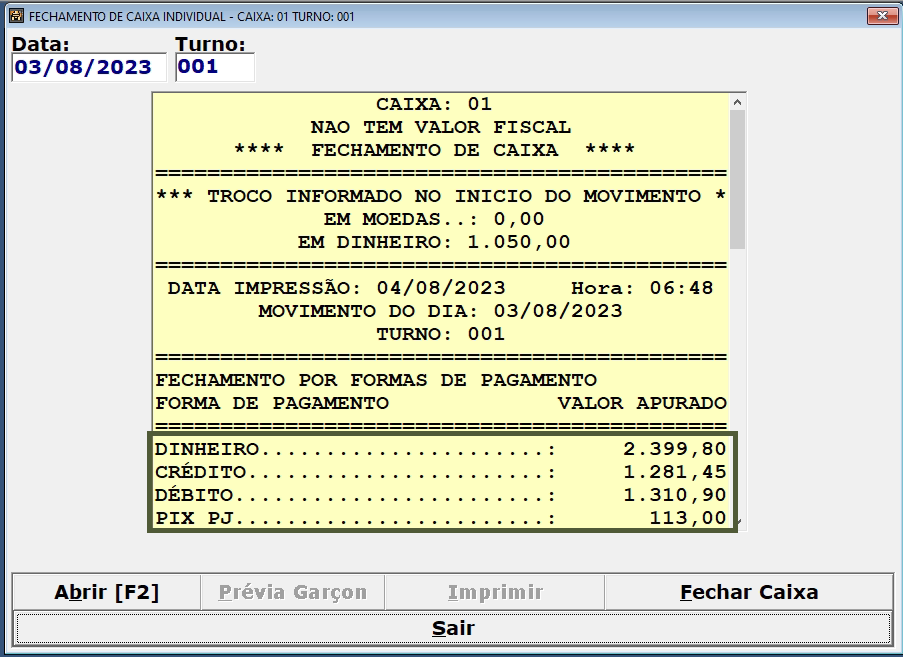
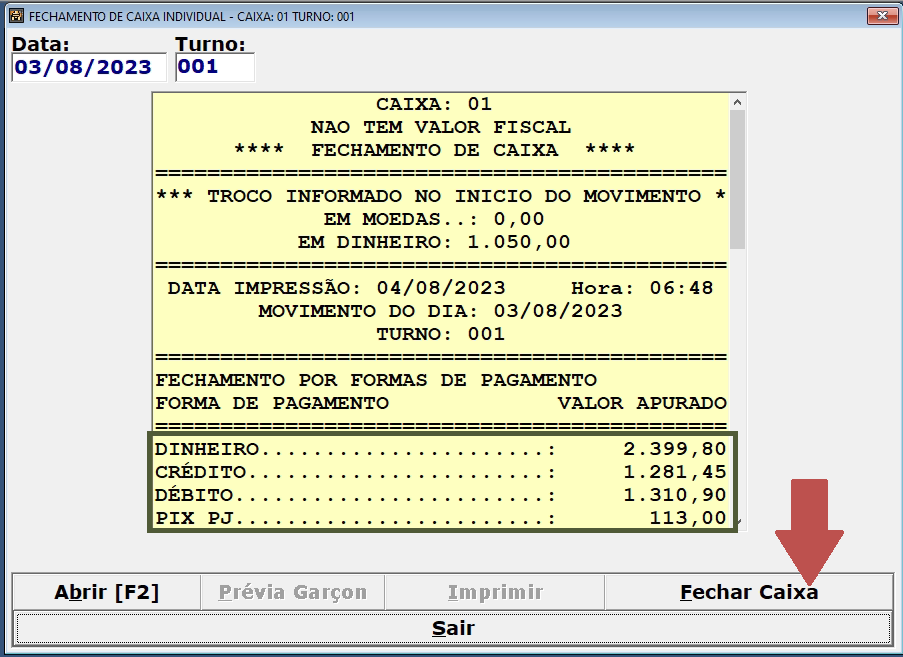
index fixes

Changed region(s): [[0.8372, 0.7306, 0.9302, 0.8828]]

diff --git a/Padrinho/fecha_caixa.html b/Padrinho/fecha_caixa.html
@@ -14,24 +14,27 @@
 <body>
     <div class="page">
         <h1 class="header">Fechamento de caixa</h1>
-        <p>No menu principal, clique em "IMPORTA APP" (flecha vermelha).</p>
-        <img src="../Usuário/fechamento_menu.jpg" alt=""/>
-        <p>Para sair do sistema é só clicar no botão “SAIR” (flecha verde):</p>
-        <img src="../Usuário/Cap 20.png" alt=""/>
-        <p>Para sair do sistema é só clicar no botão “SAIR” (flecha verde):</p>
         <p>No menu principal, clique em "FECHAMENTO DE CAIXA" (flecha vermelha).</p>
         <img src="../Usuário/fechamento_menu.jpg" alt=""/>
-        <p>Para sair do sistema é só clicar no botão “SAIR” (flecha verde):</p>
+        <p>O aviso vai aparecer, perguntando se você lançou todas as despesas no 
+            sistema antes de fazer o fechamento do caixa. Clique em "OK" (flecha verde).</p>
+        <img src="../Usuário/Cap 20.png" alt=""/>
+        <p>A tela a seguir irá aparecer. Nela podemos ver no retângulo verde os tipos de pagamento 
+            e os valores recebidos em cada tipo. Agora clique em "Fechar Caixa" (flecha vermelha).</p>
         <img src="../Usuário/Cap 21.png" alt=""/>
-        <p>Para sair do sistema é só clicar no botão “SAIR” (flecha verde):</p>
+        <p>A mensagem a seguir irá aparecer. Caso queira fechar o caixa clique em "SIM" 
+            (flecha verde), do contrário clique em "NÃO".</p>
         <img src="../Usuário/Cap 22.png" alt=""/>
-        <p>Para sair do sistema é só clicar no botão “SAIR” (flecha verde):</p>
+        <p>Agora coloque sua senha no local do retângulo vermelho. Depois clique em "OK" 
+            (flecha vermelha).</p>
         <img src="../Usuário/Cap 23.png" alt=""/>
-        <p>Para sair do sistema é só clicar no botão “SAIR” (flecha verde):</p>
+        <p>O aviso irá aparecer a seguir. Será feita a impressão do fechamento do caixa, clique 
+            em "OK" (flecha verde):</p>
         <img src="../Usuário/Cap 24.png" alt=""/>
-        <div class="btnIni">
+        <p>Pronto! O caixa está fechado!</p>
+        <!--<div class="btnIni">
             <a href="../Item 14/14.html">Anterior</a>
-        </div>
+        </div>-->
     </div>
 </body>
 </html>

diff --git a/index.html b/index.html
@@ -16,16 +16,16 @@
         <h1 class="header">MANUAL DO USUÁRIO FOOD</h1>
         <div class="hero">
             
-            <img src="../assets/Logo Optimus globo.svg" alt=""/>
+            <img src="./assets/Logo Optimus globo.svg" alt=""/>
             
             <p>Para sua maior comodidade, veja se o tamanho da letra do sistema está confortável para você, se precisar 
                 mudar entre em contato com o nosso suporte!</p>
         
-            <img class="" src="../assets/Logo Optimus globo.svg" alt=""/>
+            <img class="" src="./assets/Logo Optimus globo.svg" alt=""/>
         
         </div>
         <div class="btnFim">
-            <a href="../Sumario/sumario.html">Sumário</a>
+            <a href="./Sumario/sumario.html">Sumário</a>
         </div>
     </div>
 </body>

diff --git a/Padrinho/expedicao.html b/Padrinho/expedicao.html
@@ -56,9 +56,9 @@
             foram pagas usando o tipo de pagamento selecionado. Caso seja correto, clique em "Sim" 
             (flecha verde), do contrário, clique em "Não".</p>
         <img src="../Usuário/Cap 18.png" alt=""/>
-        <div class="btnIni">
+        <!--<div class="btnIni">
             <a href="../Item 14/14.html">Anterior</a>
-        </div>
+        </div>-->
     </div>
 </body>
 </html>
